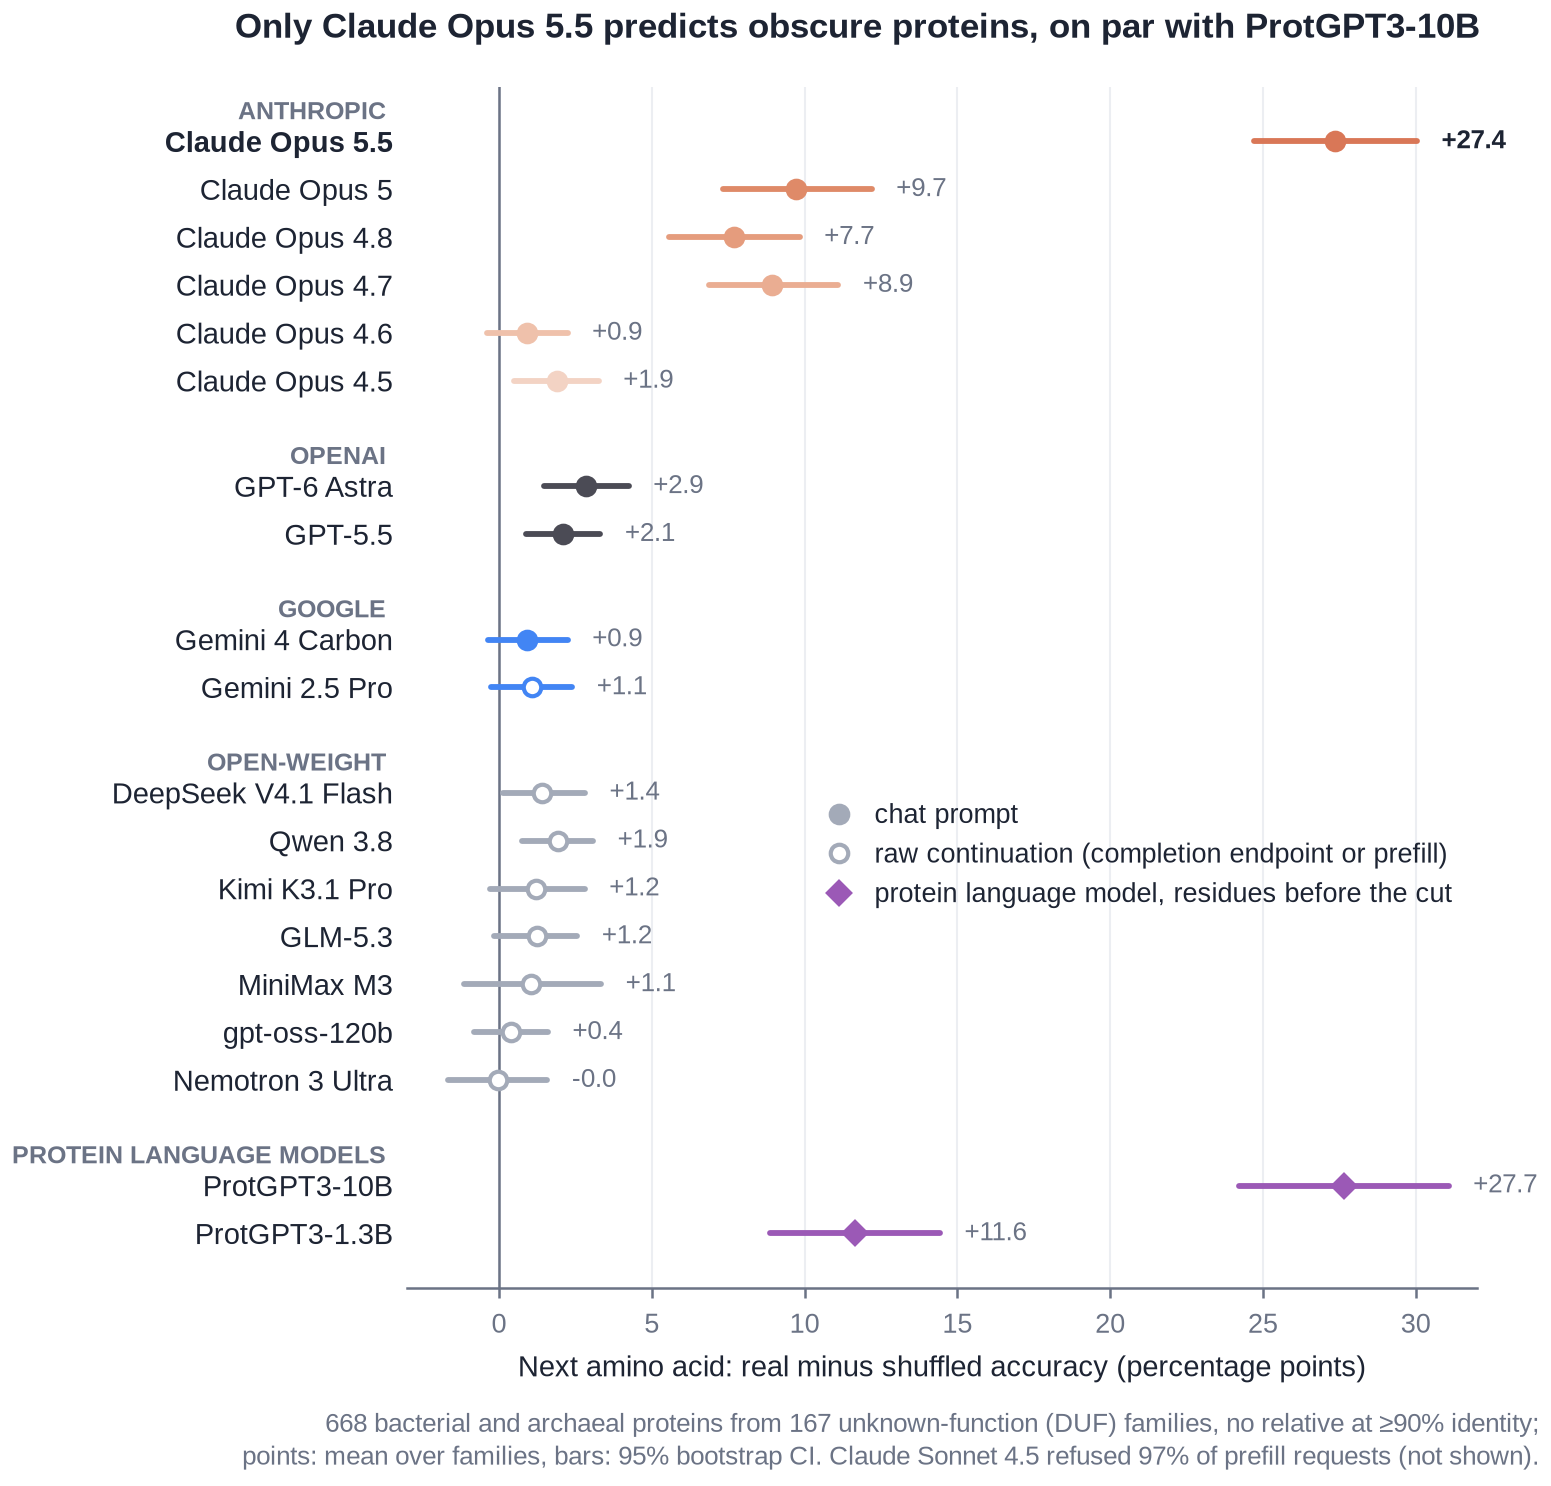
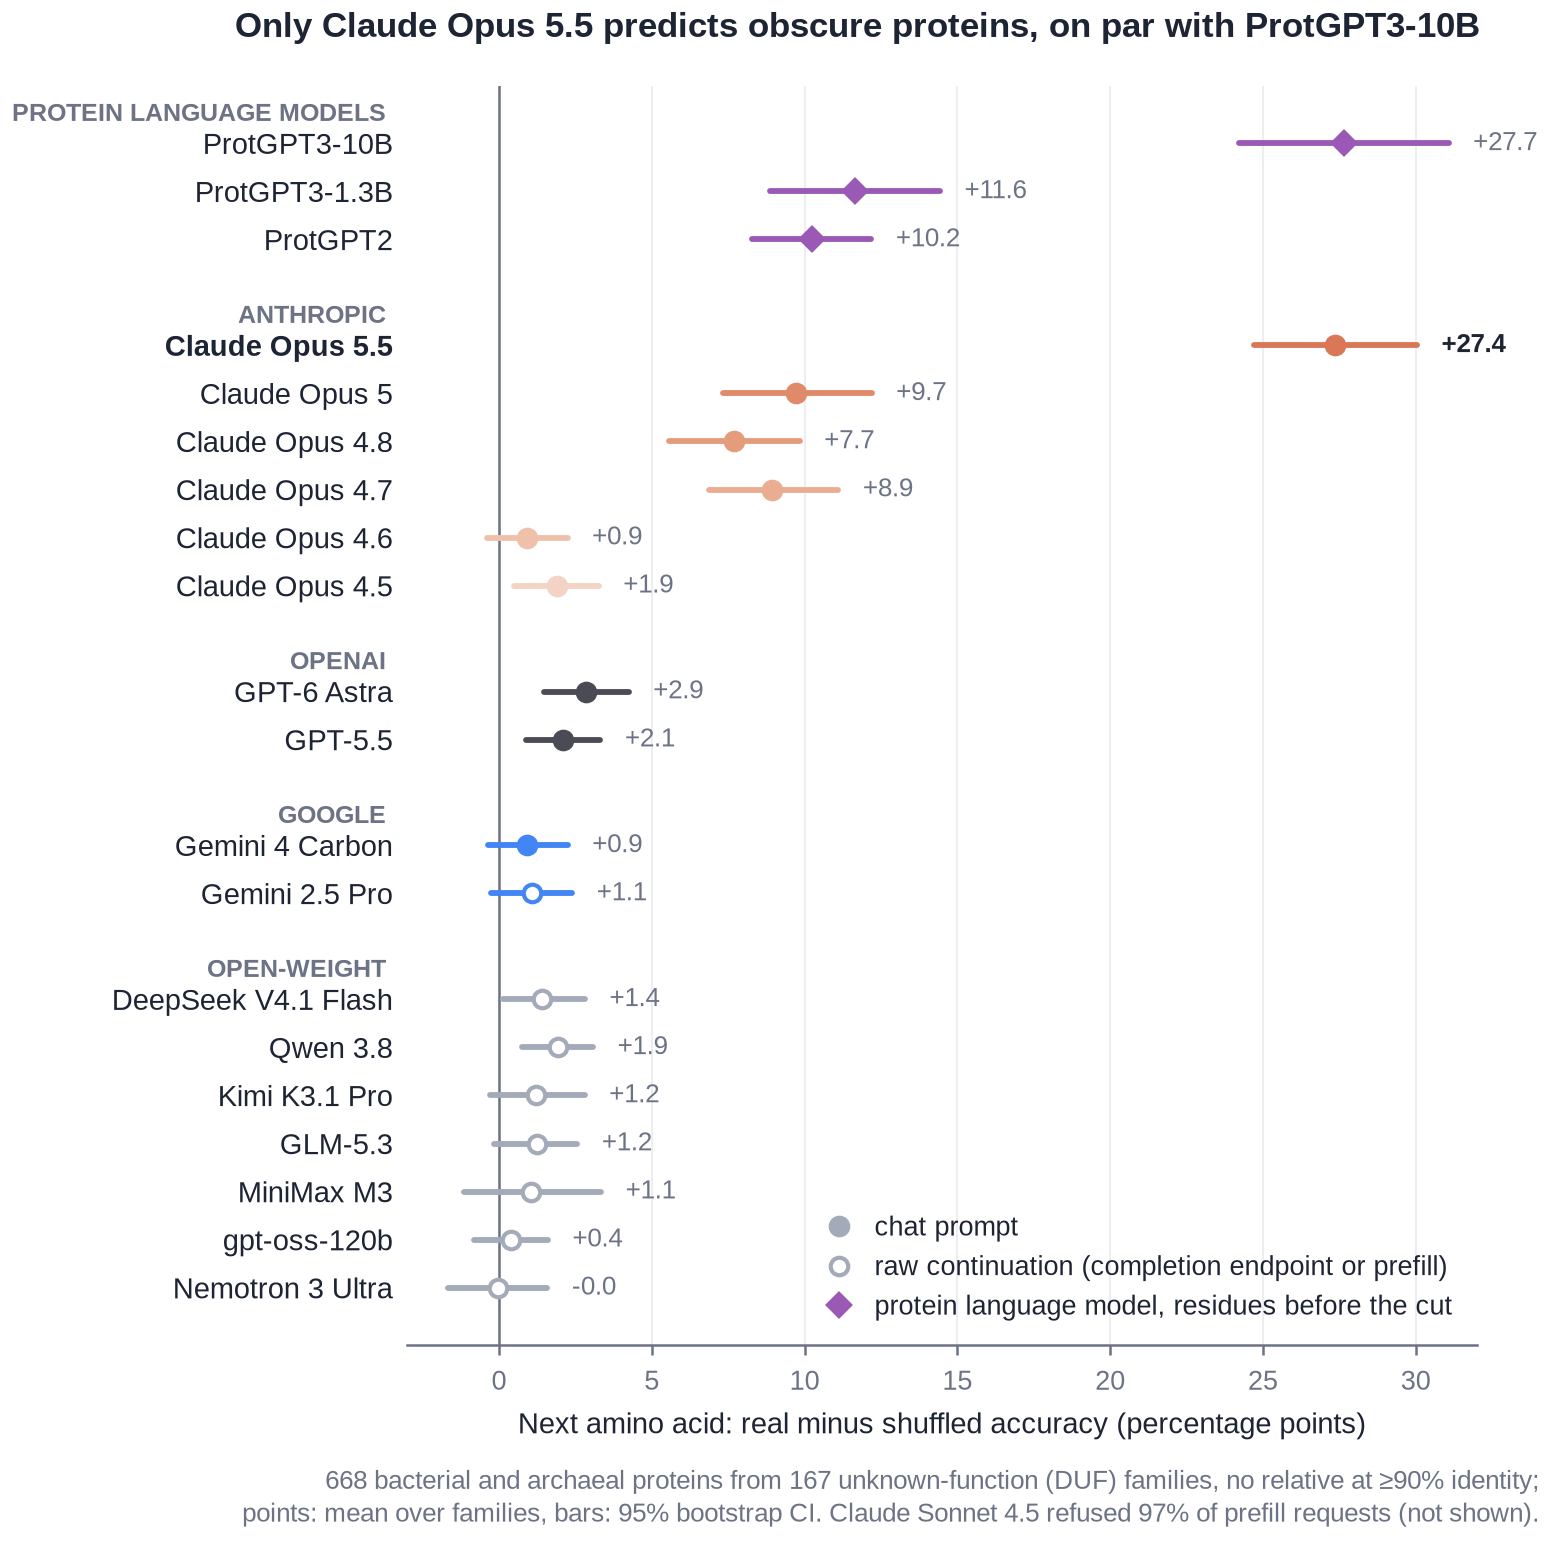
Show protein language models first in Fig 1, with ProtGPT2

diff --git a/_posts/2026-11-16-claude-opus-5-5-protein-sequences.md b/_posts/2026-11-16-claude-opus-5-5-protein-sequences.md
@@ -85,7 +85,7 @@ The proteins come from 167 Pfam "domain of unknown function" families with no so
 ## Results: only Claude Opus 5.5 predicts them
 
 <figure class="bp-figure" markdown="0">
-  <img src="{{ '/assets/img/llm-bioseq-probe/fig1_protein.png' | relative_url }}" alt="Forest plot of the real-minus-shuffled gap: Claude Opus 5.5 at +27.4 points and ProtGPT3-10B at +27.7; every other LLM between 0 and 10.">
+  <img src="{{ '/assets/img/llm-bioseq-probe/fig1_protein.png' | relative_url }}" alt="Forest plot of the real-minus-shuffled gap: protein language models first (ProtGPT3-10B +27.7, ProtGPT3-1.3B +11.6, ProtGPT2 +10.2), then Claude Opus 5.5 at +27.4; every other LLM between 0 and 10.">
   <figcaption>Filled points: the chat prompt. Hollow points: raw next-token continuation of the FASTA text, through a completion endpoint or a prefilled reply, for models that allow it.</figcaption>
 </figure>
 
